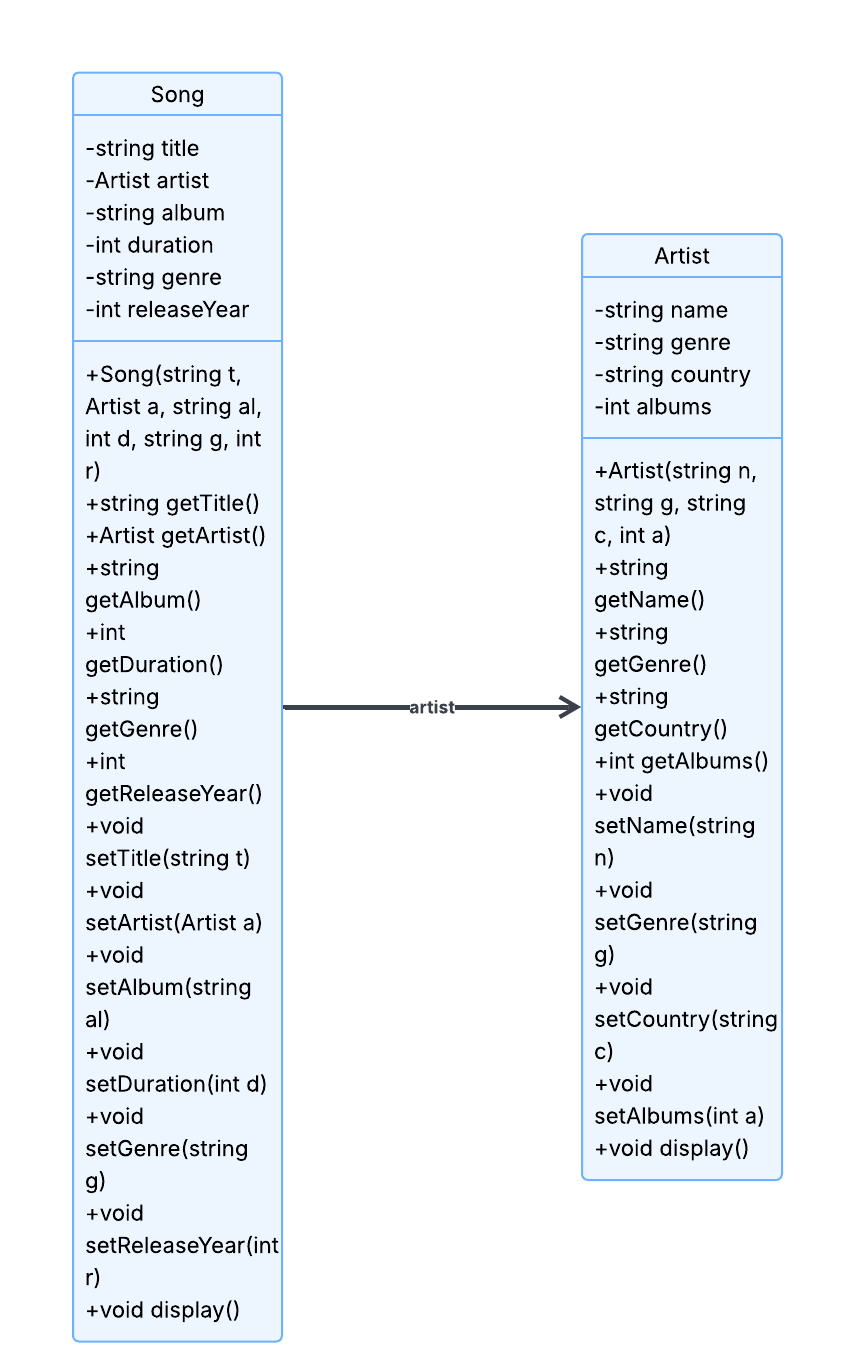
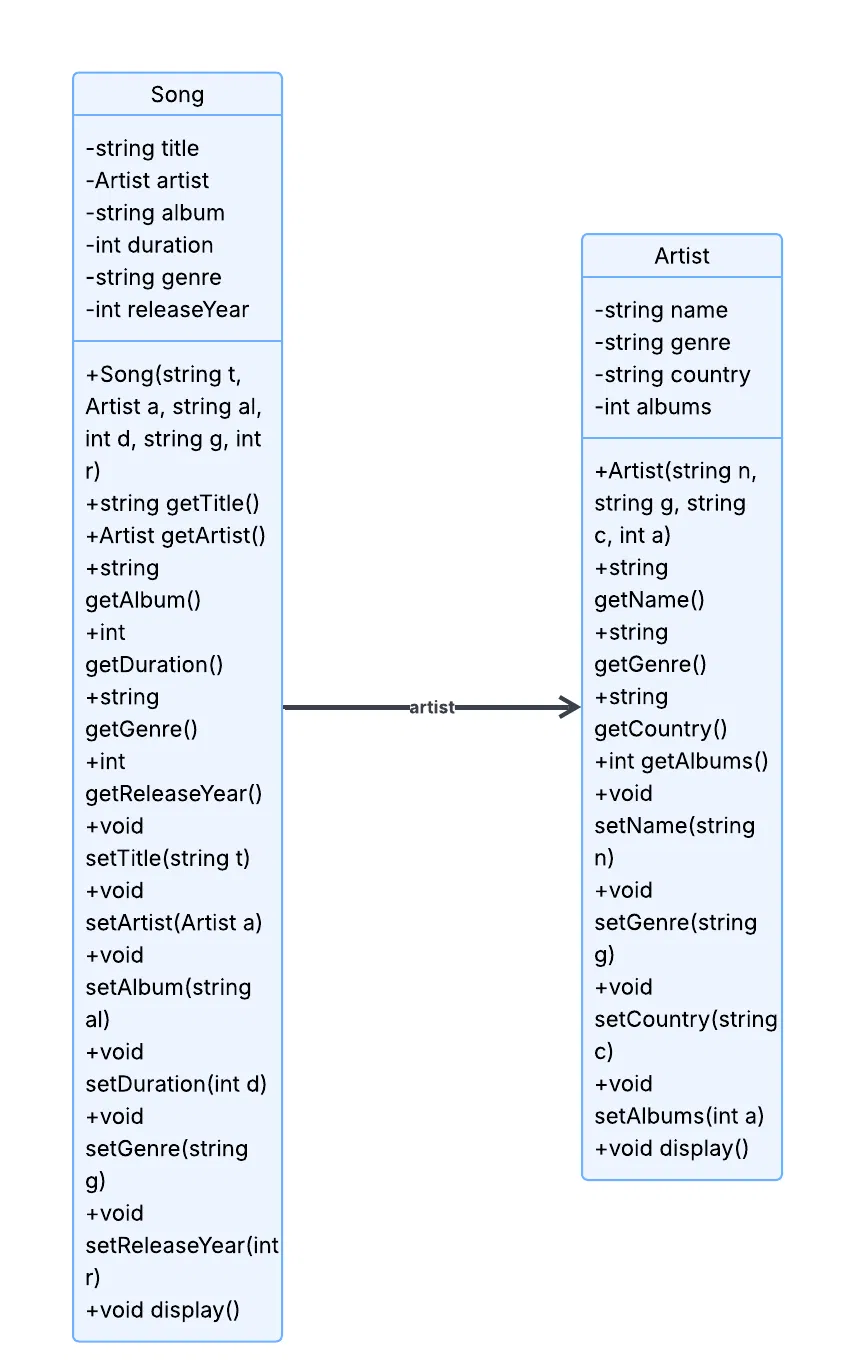
added classes uml and edited readme

diff --git a/README.md b/README.md
@@ -7,4 +7,20 @@ This program is being made into a music streaming library. It'll track songs, ar
 - MusicCollection
 - Playlist
 - StreamingService
- ![UML Diagram](uml-diagram.png)
+
+ ## Requirements
+
+- **Inheritance:** `Playlist` and `StreamingService`  inherit from `MusicCollection` because both share a name and song count.
+- **Constructor/Destructor:** Every class has both. Derived constructors call the base constructor in an initializer list. `MusicCollection` has a virtual destructor so derived objects are deleted correctly.
+- **Copy Constructors:** Each class has one. Derived ones call `MusicCollection(other)` and copy their own `songs` vector.
+- **Polymorphism:** `display()` is virtual and overridden in each  class, so each prints differently.
+- **Access Specifiers:** `name` and `numberOfSongs` are protected so derived classes can use them. Each `songs` vector is private.
+- **Friend Function:** `showCollectionInfo()` is a friend of `MusicCollection` so it can read the protected members directly.
+- **Abstract Class:** `MusicCollection` is abstract because `display()` is pure virtual (`= 0`). A generic collection has nothing to display.
+## UML Diagrams
+
+### Song and Artist
+![Song and Artist UML](uml-diagram.png)
+
+### New Classes
+![New Classes UML](uml-new-classes.png)
